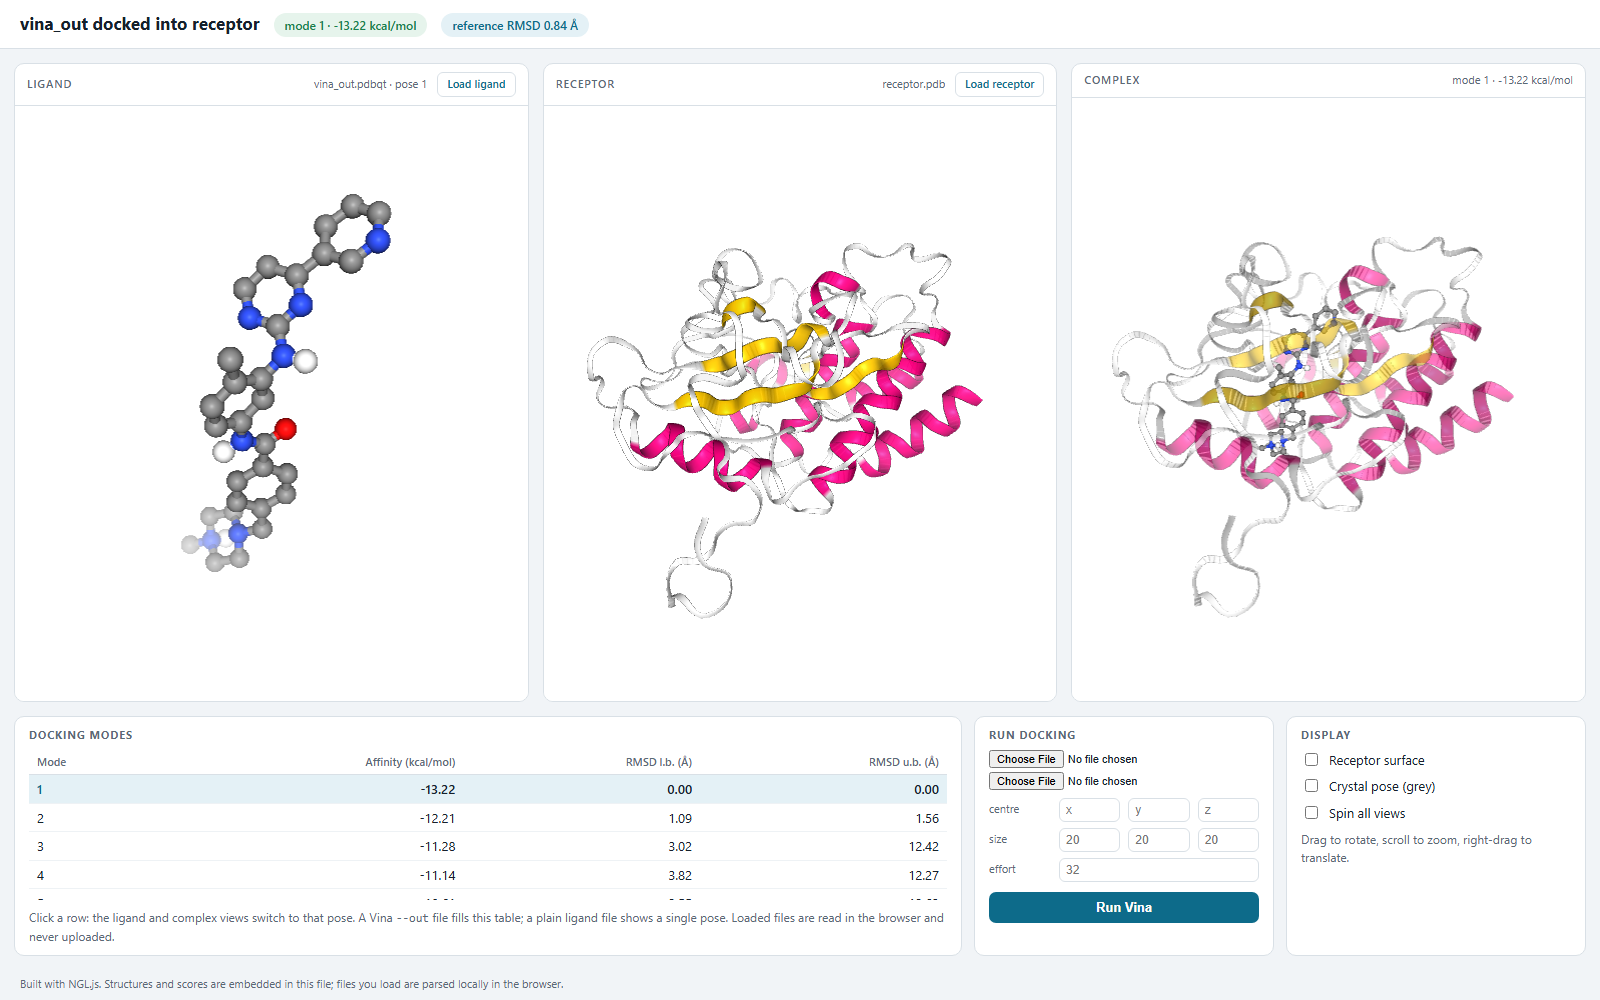
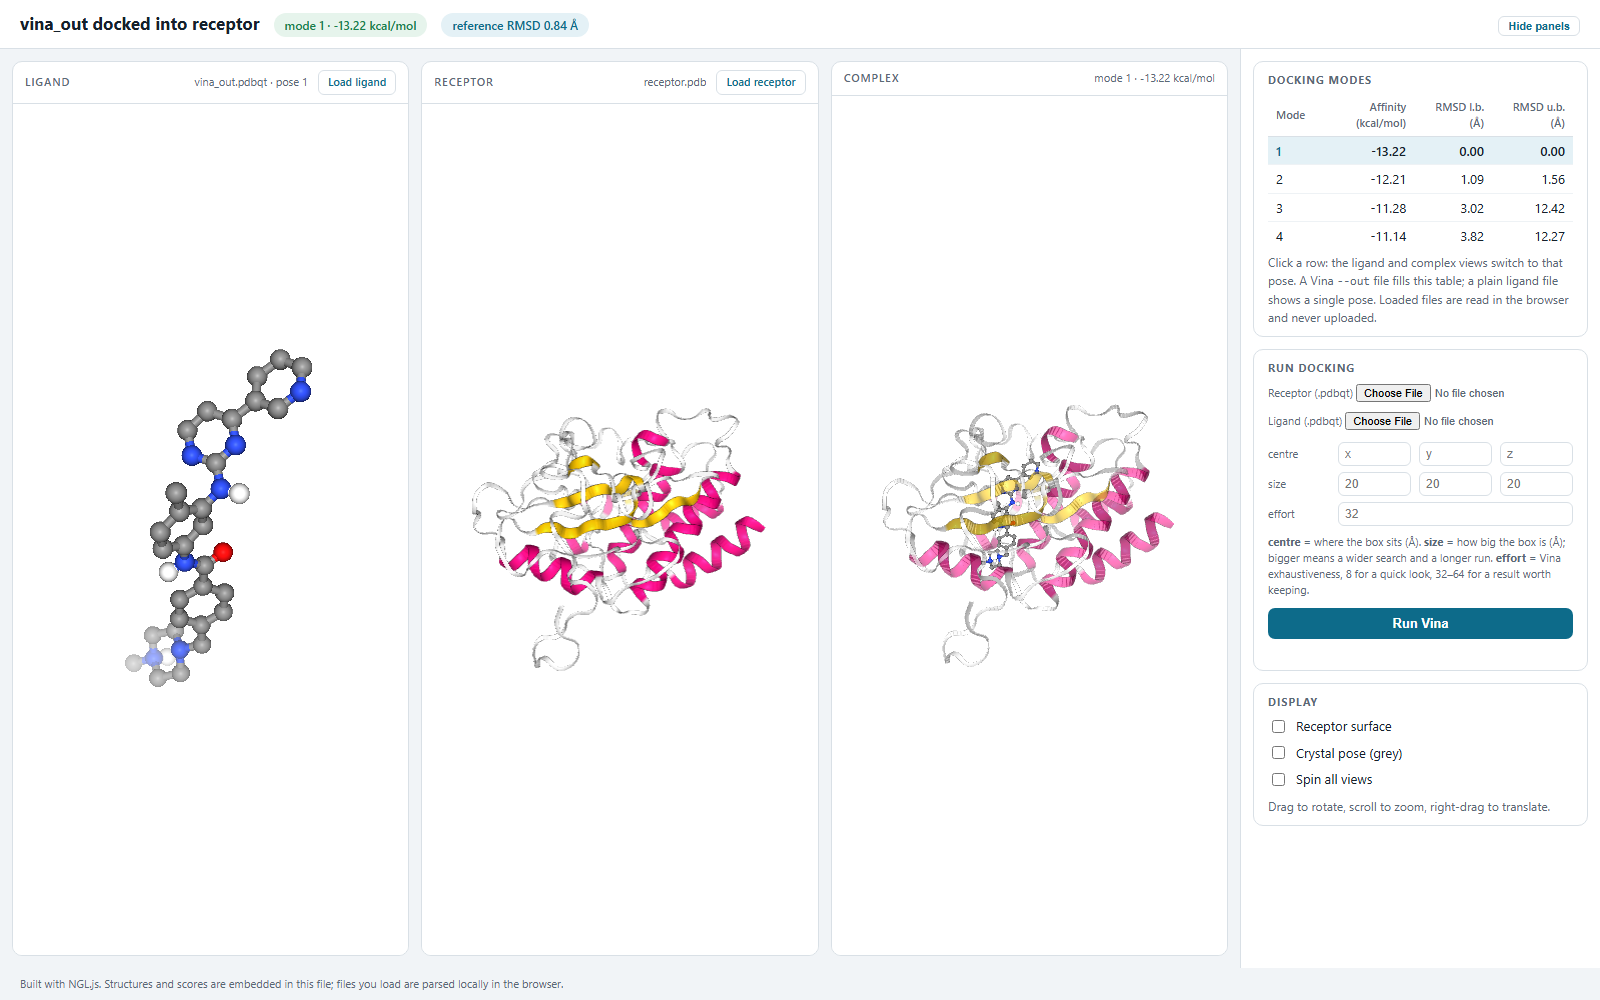
Move the score and control panels into a sidebar and fix the surface toggle.

diff --git a/ligand_docking/viewer/index.html b/ligand_docking/viewer/index.html
@@ -30,8 +30,8 @@
   }
   .badge.good { background: #e6f4ec; color: var(--good); }
 
-  main { flex: 1; display: grid; grid-template-rows: minmax(360px, 1fr) auto; min-height: 0; }
-  .views { display: grid; grid-template-columns: repeat(3, 1fr); gap: 14px; padding: 14px; min-height: 0; }
+  main { flex: 1; display: grid; grid-template-columns: minmax(0, 1fr) 360px; min-height: 0; }
+  .views { display: grid; grid-template-columns: repeat(3, 1fr); gap: 12px; padding: 12px; min-height: 0; }
   .view {
     background: var(--card); border: 1px solid var(--line); border-radius: 10px;
     display: flex; flex-direction: column; overflow: hidden; min-height: 0;
@@ -50,10 +50,12 @@
     padding: 3px 9px; cursor: pointer; white-space: nowrap; background: #fff;
   }
   .mini:hover { background: var(--accent-soft); border-color: var(--accent); }
-  .viewport { flex: 1; min-height: 300px; position: relative; }
+  .viewport { flex: 1; min-height: 240px; position: relative; }
 
-  .bottom { display: grid; grid-template-columns: minmax(0, 1fr) 320px; gap: 12px; padding: 0 14px 12px; }
-  .bottom.with-run { grid-template-columns: minmax(0, 1fr) 300px 300px; }
+  .side {
+    border-left: 1px solid var(--line); background: var(--card);
+    overflow: auto; padding: 12px; display: flex; flex-direction: column; gap: 12px;
+  }
   .run-grid { display: grid; grid-template-columns: 62px 1fr 1fr 1fr; gap: 6px 8px; align-items: center; }
   .run-grid .lbl { font-size: 11px; color: var(--ink-2); }
   .run-grid input { width: 100%; padding: 4px 6px; border: 1px solid var(--line);
@@ -67,6 +69,9 @@
   button.run:disabled { opacity: .55; cursor: progress; }
   .run-status { font-size: 11px; color: var(--ink-2); margin-top: 6px; min-height: 15px; }
   .run-status.bad { color: #b3261e; }
+  .run-help { font-size: 11px; color: var(--ink-2); margin: 8px 0 0; line-height: 1.45; }
+  .run-files .lbl { display: block; font-size: 11px; color: var(--ink-2); margin-bottom: 4px; }
+  .run-files input[type=file] { font-size: 11px; margin-top: 2px; }
   .card {
     background: var(--card); border: 1px solid var(--line); border-radius: 10px;
     padding: 10px 14px;
@@ -105,6 +110,7 @@
   <span class="sub" id="subtitle"></span>
   <span class="badge good" id="mode-badge">mode 1</span>
   <span class="badge" id="rmsd-badge"></span>
+  <button class="mini" id="toggle-panels" style="margin-left:auto">Hide panels</button>
 </header>
 
 <main>
@@ -131,7 +137,7 @@
     </div>
   </div>
 
-  <div class="bottom" id="bottom">
+  <aside class="side" id="bottom">
     <div class="card">
       <h3>Docking modes</h3>
       <div class="table-scroll">
@@ -150,21 +156,30 @@
     <div class="card" id="run-card" style="display:none">
       <h3>Run docking</h3>
       <div class="run-files">
-        <input type="file" id="run-receptor" accept=".pdbqt">
-        <input type="file" id="run-ligand" accept=".pdbqt">
+        <label class="lbl">Receptor (.pdbqt)
+          <input type="file" id="run-receptor" accept=".pdbqt">
+        </label>
+        <label class="lbl">Ligand (.pdbqt)
+          <input type="file" id="run-ligand" accept=".pdbqt">
+        </label>
       </div>
       <div class="run-grid">
-        <span class="lbl">centre</span>
+        <span class="lbl" title="centre of the search box in Angstrom">centre</span>
         <input type="text" id="run-cx" placeholder="x">
         <input type="text" id="run-cy" placeholder="y">
         <input type="text" id="run-cz" placeholder="z">
-        <span class="lbl">size</span>
+        <span class="lbl" title="box edge lengths in Angstrom">size</span>
         <input type="text" id="run-sx" placeholder="20">
         <input type="text" id="run-sy" placeholder="20">
         <input type="text" id="run-sz" placeholder="20">
-        <span class="lbl">effort</span>
+        <span class="lbl" title="Vina exhaustiveness: higher is slower and more reliable">effort</span>
         <input type="text" id="run-ex" placeholder="32" style="grid-column: span 3">
       </div>
+      <p class="run-help">
+        <b>centre</b> = where the box sits (Å). <b>size</b> = how big the box is (Å);
+        bigger means a wider search and a longer run. <b>effort</b> = Vina
+        exhaustiveness, 8 for a quick look, 32–64 for a result worth keeping.
+      </p>
       <button class="run" id="run-btn">Run Vina</button>
       <div class="run-status" id="run-status"></div>
     </div>
@@ -178,7 +193,7 @@
       </div>
       <p class="hint">Drag to rotate, scroll to zoom, right-drag to translate.</p>
     </div>
-  </div>
+  </aside>
 </main>
 
 <footer>
@@ -206,6 +221,7 @@ const state = {
 };
 
 let proteinReps = [];
+const surfaceReps = new Map();
 let ligandLone = null;
 let ligandInComplex = null;
 let crystalComp = null;
@@ -224,12 +240,12 @@ function setProtein(keepView) {
     load(stages.receptor, state.receptor.text, state.receptor.ext).then((comp) => {
       comp.addRepresentation("cartoon", { colorScheme: "sstruc", opacity: 0.95 });
       proteinReps.push(comp);
-      if (!keepView) setTimeout(() => stages.receptor.autoView(300), 150);
+      if (!keepView) { comp.autoView(0); setTimeout(() => comp.autoView(300), 400); }
     }),
     load(stages.complex, state.receptor.text, state.receptor.ext).then((comp) => {
       comp.addRepresentation("cartoon", { colorScheme: "sstruc", opacity: 0.55 });
       proteinReps.push(comp);
-      if (!keepView) setTimeout(() => stages.complex.autoView(300), 150);
+      if (!keepView) { comp.autoView(0); setTimeout(() => comp.autoView(300), 400); }
     }),
   ]);
 }
@@ -339,15 +355,18 @@ document.getElementById("ligand-file").addEventListener("change", async (event) 
 /* ---------------- display options ---------------- */
 
 document.getElementById("surface").addEventListener("change", (event) => {
-  proteinReps.forEach((comp) => {
-    if (event.target.checked) {
-      comp.addRepresentation("surface",
+  if (event.target.checked) {
+    proteinReps.forEach((comp) => {
+      const rep = comp.addRepresentation("surface",
         { colorScheme: "uniform", colorValue: 0xaab4bd, opacity: 0.22, surfaceType: "av" });
-    } else {
-      comp.representations.filter((rep) => rep.type === "surface")
-        .forEach((rep) => comp.removeRepresentation(rep));
-    }
-  });
+      surfaceReps.set(comp, rep);
+    });
+  } else {
+    surfaceReps.forEach((rep, comp) => {
+      try { comp.removeRepresentation(rep); } catch (e) {}
+    });
+    surfaceReps.clear();
+  }
 });
 
 document.getElementById("crystal").addEventListener("change", (event) => {
@@ -364,6 +383,16 @@ document.getElementById("crystal").addEventListener("change", (event) => {
 
 document.getElementById("spin").addEventListener("change", (event) => {
   Object.values(stages).forEach((stage) => stage.setSpin(event.target.checked));
+});
+
+document.getElementById("toggle-panels").addEventListener("click", (event) => {
+  const bottom = document.getElementById("bottom");
+  const hiding = bottom.style.display !== "none";
+  bottom.style.display = hiding ? "none" : "";
+  event.target.textContent = hiding ? "Show panels" : "Hide panels";
+  requestAnimationFrame(() => {
+    Object.values(stages).forEach((stage) => stage.handleResize());
+  });
 });
 
 window.addEventListener("resize", () => {
